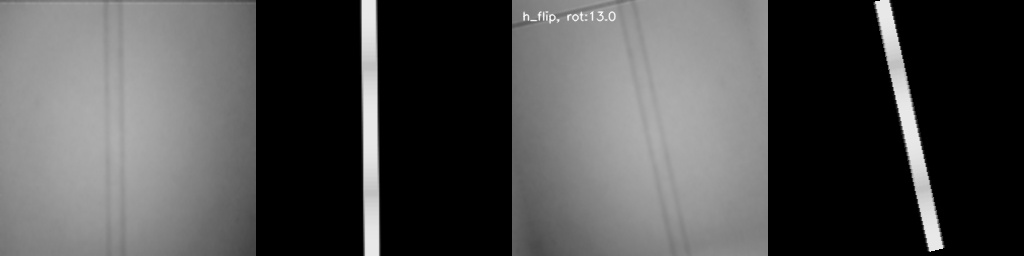
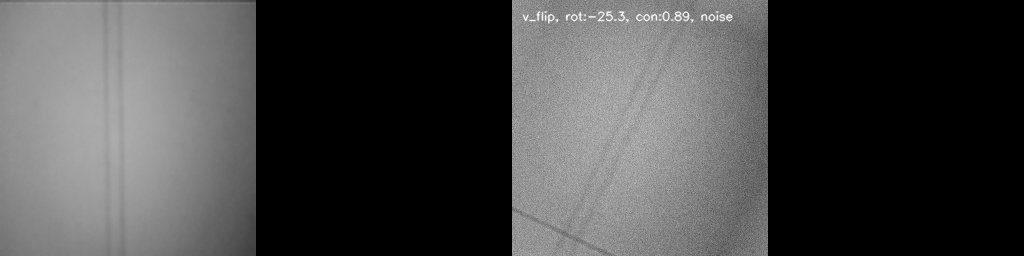
增加早停逻辑

Changed region(s): [[0.5, 0.0, 0.75, 1.0], [0.8438, 0.0, 0.9375, 1.0], [0.3438, 0.0, 0.375, 1.0]]

diff --git a/py_scripts/net/train_teacher.py b/py_scripts/net/train_teacher.py
@@ -37,7 +37,9 @@ AUG_VIS_FILENAME = 'aug_debug_batch.jpg'
 
 BATCH_SIZE = 8
 LEARNING_RATE = 1e-4
-EPOCHS = 5
+EPOCHS = 0  # 0=早停模式，>0=固定轮数
+PATIENCE = 10  # 早停耐心值（仅EPOCHS=0时生效）
+MAX_EPOCHS = 1000  # 最大训练轮数（仅EPOCHS=0时生效）
 IMAGE_SIZE = 256
 TRAIN_RATIO = 0.8
 
@@ -271,15 +273,24 @@ def train():
     optimizer = optim.Adam(model.parameters(), lr=LEARNING_RATE)
     
     best_val_loss = float('inf')
+    no_improve_count = 0  # 早停计数器
     
     print(f"Device: {DEVICE}")
     print(f"Total samples: {len(common_names)}")
     print(f"Train samples: {len(train_names)} (Augmentation: ON)")
     print(f"Val samples:   {len(val_names)}   (Augmentation: OFF)")
     print(f"Augmentation Config: {AUGMENTATION_CONFIG}")
+    
+    if EPOCHS == 0:
+        print(f"训练模式: 早停模式 (patience={PATIENCE}, max_epochs={MAX_EPOCHS})")
+    else:
+        print(f"训练模式: 固定轮数 (epochs={EPOCHS})")
     print("=" * 60)
     
-    for epoch in range(EPOCHS):
+    # 确定训练轮数
+    total_epochs = EPOCHS if EPOCHS > 0 else MAX_EPOCHS
+    
+    for epoch in range(total_epochs):
         # ========== Train ==========
         model.train()
         train_loss = 0.0
@@ -336,15 +347,21 @@ def train():
         print(f"  Train - Loss: {train_loss:.4f}, IoU: {train_iou:.4f}, Acc: {train_acc:.4f}")
         print(f"  Val   - Loss: {val_loss:.4f}, IoU: {val_iou:.4f}, Acc: {val_acc:.4f}")
         
-        # ========== Save Best Model ==========
+        # ========== Save Best Model & Early Stopping ==========
         if val_loss < best_val_loss:
             best_val_loss = val_loss
+            no_improve_count = 0
             torch.save(model.state_dict(), model_path)
             print(f"  >>> Best model saved: {model_path}")
+        else:
+            no_improve_count += 1
+            if EPOCHS == 0 and no_improve_count >= PATIENCE:
+                print(f"  >>> Early stopping triggered! No improvement for {PATIENCE} epochs")
+                break
         
         print("-" * 60)
     
-    print("Training completed!")
+    print(f"Training completed! Best val loss: {best_val_loss:.4f}")
 
 
 if __name__ == '__main__':
